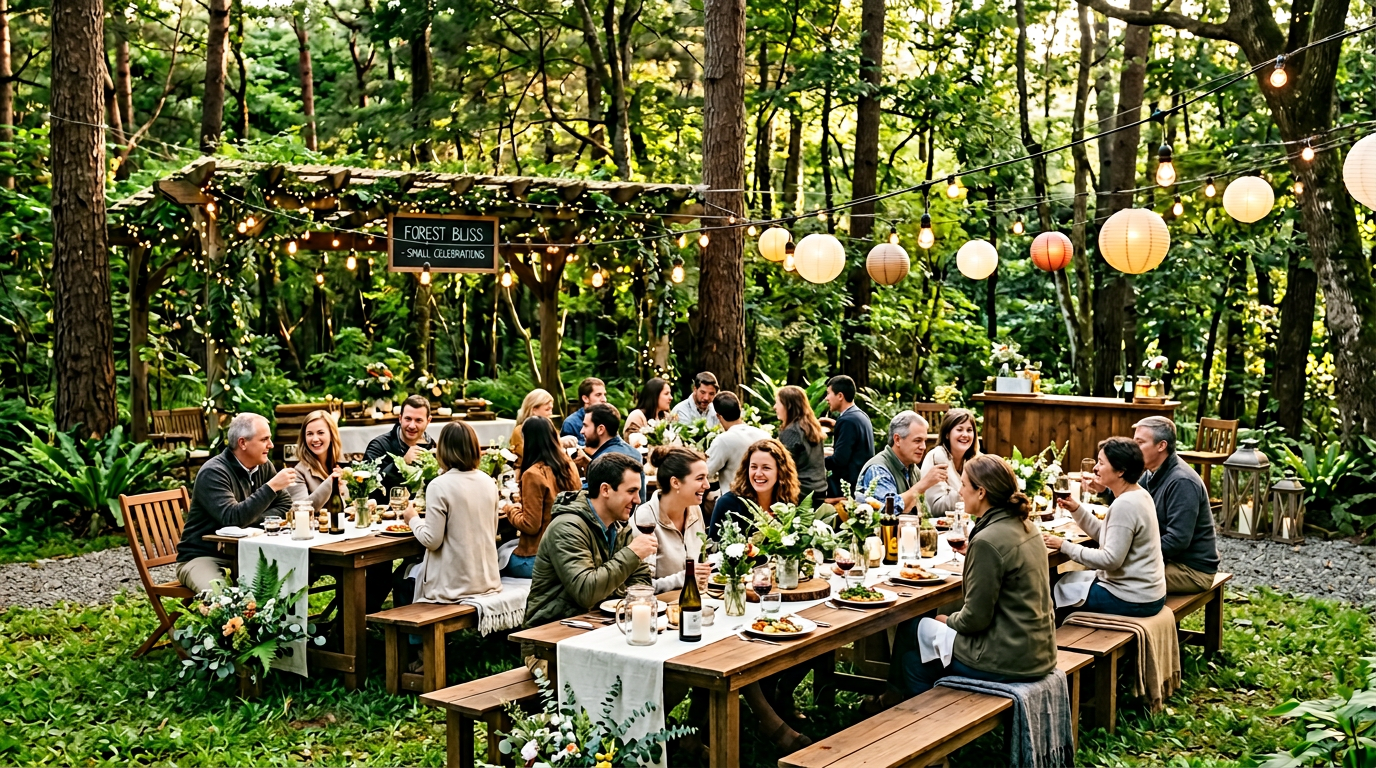
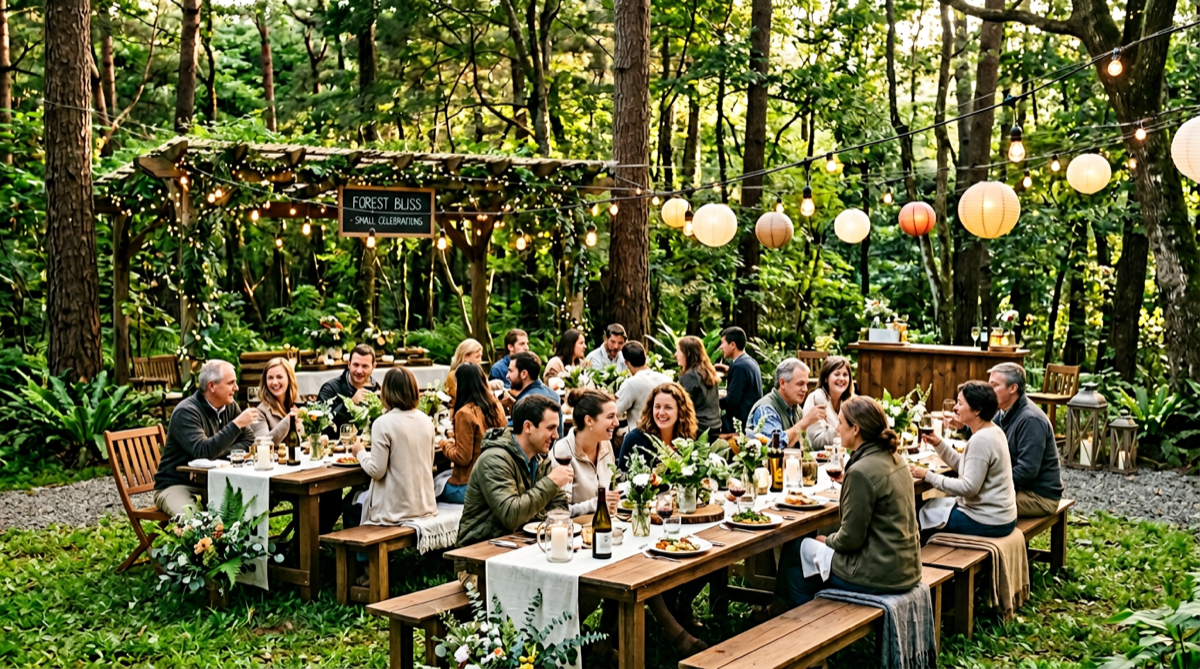
SEO pages: hero div layout, resize images; footer 分享資訊; CSS article-hero
Made-with: Cursor

Changed region(s): [[0.6475, 0.7474, 0.6783, 0.7773], [0.3392, 0.2392, 0.37, 0.2691]]

diff --git a/assets/css/style.css b/assets/css/style.css
@@ -129,8 +129,9 @@ p{margin:0 0 12px}
 
 /* ---------- SEO 文章頁：小編／專家分享風格 ---------- */
 .seo-article .section.tight .container{max-width:720px}
-.article-hero{position:relative; border-radius:var(--r); overflow:hidden; margin-bottom:24px; background:#eee}
-.article-hero img{width:100%; height:auto; max-height:420px; object-fit:cover; display:block}
+.article-hero{position:relative; border-radius:var(--r); overflow:hidden; margin-bottom:24px; background:#111; aspect-ratio:16/9; min-height:240px}
+.article-hero__media{position:absolute; inset:0; z-index:0}
+.article-hero__media img,.article-hero img{width:100%; height:100%; object-fit:cover; display:block}
 .article-byline{display:flex; flex-wrap:wrap; gap:12px 20px; align-items:center; font-size:13px; color:var(--muted); margin-bottom:20px}
 .article-lead{font-size:17px; line-height:1.65; color:var(--text); margin-bottom:28px; max-width:72ch}
 .article-body .card{margin-bottom:16px}

diff --git a/seo/taoyuan-party-venue.html b/seo/taoyuan-party-venue.html
@@ -22,7 +22,9 @@
         <p class="article-lead">想在桃園找一處可以辦生日、抓周或小型聚會的包場空間，卻不確定從何比較？本篇從「場地清單、價位區間、主題特色」三面向整理，並附上簡易比較表，方便你依預算與人數篩選。若你偏好的是一場不與陌生人共用、能自備餐點、在自然環境裡完成的派對，文末也會對應到適合的選項。</p>
 
         <div class="article-hero">
-          <img src="../assets/images/seo/taoyuan-party-venue/hero.png" alt="森林系派對情境示意：戶外桌椅、自然光與綠意" loading="eager" />
+          <div class="article-hero__media">
+            <img src="../assets/images/seo/taoyuan-party-venue/hero.png" alt="森林系派對情境示意：戶外桌椅、自然光與綠意" loading="eager" />
+          </div>
         </div>
 
         <div class="article-body">

diff --git a/seo/taoyuan-baby-grab.html b/seo/taoyuan-baby-grab.html
@@ -22,7 +22,9 @@
         <p class="article-lead">桃園抓周／周歲派對選擇不少，從室內套裝到戶外森林系都有。本篇從場地清單、價位區間、主題特色三面向整理，並附比較表，方便你依「要主持帶流程」或「自己來、要自然風」篩選。若偏好戶外、單組不共用、自訂流程，文末會對應到適合的選項。</p>
 
         <div class="article-hero">
-          <img src="../assets/images/seo/taoyuan-baby-grab/hero.png" alt="抓周派對情境示意：傳統道具與全家福氛圍" loading="eager" />
+          <div class="article-hero__media">
+            <img src="../assets/images/seo/taoyuan-baby-grab/hero.png" alt="抓周派對情境示意：傳統道具與全家福氛圍" loading="eager" />
+          </div>
         </div>
 
         <div class="article-body">

diff --git a/seo/forest-party-venue.html b/seo/forest-party-venue.html
@@ -22,7 +22,9 @@
         <p class="article-lead">想辦一場有森林感、不制式、能留下自然互動畫面的派對？本篇整理全台森林系／自然風派對場地類型、價位區間與選場建議，並附比較表。北台灣選項較少，若你鎖定「單組、不與他人共用、自然風」，文末會對應到適合的區域與方案。</p>
 
         <div class="article-hero">
-          <img src="../assets/images/seo/forest-party-venue/hero.png" alt="森林派對情境示意：草地、樹木與生活感" loading="eager" />
+          <div class="article-hero__media">
+            <img src="../assets/images/seo/forest-party-venue/hero.png" alt="森林派對情境示意：草地、樹木與生活感" loading="eager" />
+          </div>
         </div>
 
         <div class="article-body">

diff --git a/seo/pet-birthday.html b/seo/pet-birthday.html
@@ -22,7 +22,9 @@
         <p class="article-lead">想幫毛孩辦一場生日派對，卻不確定該選餐廳小聚、戶外草地包場還是攝影棚＋慶生？本篇整理寵物生日派對場地類型、價位區間與選場建議，並附比較表。若你希望「毛孩為主角、有空間跑、能拍照留念」，文末會對應到適合的選項。</p>
 
         <div class="article-hero">
-          <img src="../assets/images/seo/pet-birthday/hero.png" alt="寵物生日派對情境示意：毛孩與慶生氛圍" loading="eager" />
+          <div class="article-hero__media">
+            <img src="../assets/images/seo/pet-birthday/hero.png" alt="寵物生日派對情境示意：毛孩與慶生氛圍" loading="eager" />
+          </div>
         </div>
 
         <div class="article-body">

diff --git a/seo/outdoor-birthday-party.html b/seo/outdoor-birthday-party.html
@@ -22,7 +22,9 @@
         <p class="article-lead">想辦戶外生日派對，卻在公園、景觀餐廳、森林包場之間猶豫？本篇整理戶外生日派對常見類型、價位區間與選場建議，並附比較表。若你希望「不被打擾、拍照好看、能控流程」，文末會對應到適合的選項。</p>
 
         <div class="article-hero">
-          <img src="../assets/images/seo/outdoor-birthday-party/hero.png" alt="戶外生日派對情境示意：草地、蛋糕與自然光" loading="eager" />
+          <div class="article-hero__media">
+            <img src="../assets/images/seo/outdoor-birthday-party/hero.png" alt="戶外生日派對情境示意：草地、蛋糕與自然光" loading="eager" />
+          </div>
         </div>
 
         <div class="article-body">

diff --git a/seo/private-event-venue.html b/seo/private-event-venue.html
@@ -22,7 +22,9 @@
         <p class="article-lead">想找一處可以安靜聚會、不被打擾的小型包場空間？本篇整理小型包場（約 10–20 人）常見類型、價位區間與選場建議，並附比較表。若你重視「單組使用、可自備飲食、流程自己安排」，文末會對應到適合的選項。</p>
 
         <div class="article-hero">
-          <img src="../assets/images/seo/private-event-venue/hero.png" alt="小型包場情境示意：私密聚會與自然氛圍" loading="eager" />
+          <div class="article-hero__media">
+            <img src="../assets/images/seo/private-event-venue/hero.png" alt="小型包場情境示意：私密聚會與自然氛圍" loading="eager" />
+          </div>
         </div>
 
         <div class="article-body">

diff --git a/seo/taoyuan-proposal.html b/seo/taoyuan-proposal.html
@@ -22,7 +22,9 @@
         <p class="article-lead">想在桃園安排一場求婚驚喜，卻不確定該選餐廳包廂、景觀夜景還是森林包場？本篇整理桃園求婚場地類型、價位區間與常見需求對照，並附比較表。若你偏好自然光、草地、不被打擾的小型見證，文末會對應到適合的選項。</p>
 
         <div class="article-hero">
-          <img src="../assets/images/seo/taoyuan-proposal/hero.png" alt="求婚情境示意：森林系、自然光與氛圍" loading="eager" />
+          <div class="article-hero__media">
+            <img src="../assets/images/seo/taoyuan-proposal/hero.png" alt="求婚情境示意：森林系、自然光與氛圍" loading="eager" />
+          </div>
         </div>
 
         <div class="article-body">

diff --git a/seo/taoyuan-pet-friendly.html b/seo/taoyuan-pet-friendly.html
@@ -22,7 +22,9 @@
         <p class="article-lead">想帶毛孩一起聚會或拍照，卻不確定桃園有哪些地方可以落地、奔跑、甚至包場？本篇整理桃園寵物友善場地類型、價位區間與選場建議，並附比較表，方便你依「只要用餐」或「要包場＋拍照」快速篩選。</p>
 
         <div class="article-hero">
-          <img src="../assets/images/seo/taoyuan-pet-friendly/hero.png" alt="寵物友善聚會情境示意：毛孩與主人在草地" loading="eager" />
+          <div class="article-hero__media">
+            <img src="../assets/images/seo/taoyuan-pet-friendly/hero.png" alt="寵物友善聚會情境示意：毛孩與主人在草地" loading="eager" />
+          </div>
         </div>
 
         <div class="article-body">

diff --git a/seo/taoyuan-photo-location.html b/seo/taoyuan-photo-location.html
@@ -22,7 +22,9 @@
         <p class="article-lead">桃園與鄰近可作為攝影使用的場地，大致分為室內棚、戶外自然景、複合型。本篇整理類型差異、價位區間與選場建議，並附比較表。若你鎖定自然光與戶外森林景，文末會對應到適合的區域與方案。</p>
 
         <div class="article-hero">
-          <img src="../assets/images/seo/taoyuan-photo-location/hero.png" alt="森林系攝影情境示意：自然光與戶外場景" loading="eager" />
+          <div class="article-hero__media">
+            <img src="../assets/images/seo/taoyuan-photo-location/hero.png" alt="森林系攝影情境示意：自然光與戶外場景" loading="eager" />
+          </div>
         </div>
 
         <div class="article-body">

diff --git a/components/footer.html b/components/footer.html
@@ -37,7 +37,7 @@
           <li><a href="{{base}}pages/faq.html">常見問題</a></li>
           <li class="sitemap-group">預約</li>
           <li><a href="{{base}}pages/book.html">預約</a></li>
-          <li class="sitemap-group">SEO 關鍵字頁</li>
+          <li class="sitemap-group">分享資訊</li>
           <li><a href="{{base}}seo/taoyuan-party-venue.html">桃園派對場地</a></li>
           <li><a href="{{base}}seo/taoyuan-pet-friendly.html">桃園寵物友善場地</a></li>
           <li><a href="{{base}}seo/taoyuan-baby-grab.html">桃園抓周場地</a></li>
